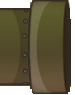
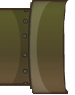
Stop timer if game is over. Put left and right tubes

Changed region(s): [[0.8533, 0.0, 0.96, 0.9684]]

diff --git a/JS2TeamWork_TeamCasper/CasperTheGhost/Scripts/GameLoader.js b/JS2TeamWork_TeamCasper/CasperTheGhost/Scripts/GameLoader.js
@@ -1,4 +1,7 @@
-/// <reference path="rotaryBeam.js" />
+/// <reference path="spring.js" />
+/// <reference path="tubes.js" />
+/// <reference path="tubes.js" />
+/// <reference path="rotaryBeam.js" />
 
 
 
@@ -22,7 +25,7 @@ function loadLevel(levelNumber) {
     initialScore = createCountDown(level.initialScore);
     $.getScript('Scripts/printScore.js',
         function () {
-            scoreBox = new scoreBox(45, 480, Math.floor(initialScore()/1000), objLayer, stage);
+            scoreBox = new scoreBox(45, 480, Math.floor(initialScore() / 1000), objLayer, stage);
         }
     );
 }
@@ -44,7 +47,7 @@ function objectsBiulder(object, objLeyer) {
                 y: object.y,
                 width: object.width,
                 height: object.height,
-                fill: 'orange'
+                fill: 'transparent'
             });
             objLeyer.add(rect);
             collisionObjects.push(rect);
@@ -91,9 +94,37 @@ function objectsBiulder(object, objLeyer) {
                         collisionObjects.push(ourFlatButtonImage);
                     });
                     collisionObjects.push(rotaryBeamImage);
-                }
-
-                )
+                });
+            break;
+        case 'leftTube':
+            var imageObj = new Image();
+            imageObj.onload = function () {
+                var leftTube = new Kinetic.Image({
+                    x: object.x,
+                    y: object.y,
+                    width: 75,
+                    hegith: 50,
+                    image: imageObj
+                })
+                objLeyer.add(leftTube);
+                stage.add(objLeyer);
+            }
+            imageObj.src = 'Resources/tubeLevel1Left.png';
+            break;
+        case 'rightTube':
+            var imageObj = new Image();
+            imageObj.onload = function () {
+                rightTube = new Kinetic.Image({
+                    x: object.x,
+                    y: object.y,
+                    width: 100,
+                    hegith: 50,
+                    image: imageObj
+                })
+                objLeyer.add(rightTube);
+                stage.add(objLeyer);
+            }
+            imageObj.src = 'Resources/tubeLevel1Right.png';
             break;
         default:
             break;

diff --git a/JS2TeamWork_TeamCasper/CasperTheGhost/Scripts/ControlLever.js b/JS2TeamWork_TeamCasper/CasperTheGhost/Scripts/ControlLever.js
@@ -42,7 +42,7 @@ function ControlLever(x, y, layer, stage) {
                 frameRate: 10,
                 frameIndex: 0
             });
-            
+
             layer.add(leverAnimation);
             stage.add(layer);
             leverAnimation.start();
@@ -50,8 +50,8 @@ function ControlLever(x, y, layer, stage) {
             var frameCount = 0;
 
             //On click animation
-            leverAnimation.on('frameIndexChange', function (evt) {
 
+            leverAnimation.on('frameIndexChange', function (evt) {
                 if (leverAnimation.animation() === 'movingLeverON') {
                     if (++frameCount > 5) {
                         leverAnimation.animation('switchedOn');

diff --git a/JS2TeamWork_TeamCasper/CasperTheGhost/Scripts/Engine.js b/JS2TeamWork_TeamCasper/CasperTheGhost/Scripts/Engine.js
@@ -5,6 +5,7 @@ var rotatedBeam;
 var scoreBox;
 var initialScore;
 var playerScore;
+var rightTube;
 
 function scoreInput() {
     var inputForm = document.createElement('input');
@@ -16,6 +17,8 @@ function scoreInput() {
     label.style.fontSize = '22px';
     label.innerHTML = 'Your name';
     inputForm.type = 'text';
+    inputForm.style.width = '150px';
+    inputForm.style.height = '30px';
     inputForm.autofocus = true;
     inputForm.style.position = 'absolute';
     inputForm.style.backgroundColor = 'lightgray';
@@ -41,6 +44,10 @@ function scoreInput() {
             //});
         }
     })
+}
+
+function gameOver() {
+    scoreInput();
 }
 
 function createCountDown(timeRemaining) {

diff --git a/JS2TeamWork_TeamCasper/CasperTheGhost/Scripts/Levels.js b/JS2TeamWork_TeamCasper/CasperTheGhost/Scripts/Levels.js
@@ -42,6 +42,16 @@
                 x: 423,
                 y: 259,
             },
+            {
+                name: 'leftTube',
+                x: 0,
+                y: 132,
+            },
+            {
+                name: 'rightTube',
+                x: 700,
+                y: 430,
+            },
             { name: 'rect', x: 0, y: 220, width: 425, height: 20 },
             { name: 'rect', x: 560, y: 220, width: 47, height: 20 },
             { name: 'rect', x: 690, y: 220, width: 110, height: 20 },

diff --git a/JS2TeamWork_TeamCasper/CasperTheGhost/Scripts/CasperObject.js b/JS2TeamWork_TeamCasper/CasperTheGhost/Scripts/CasperObject.js
@@ -105,7 +105,9 @@ function Casper(x, y, layer, stage) {
                     if (++frameCounter > 12) {
                         blob.animation('dead');
                         frameCounter = 0;
-                        scoreInput();
+                        blob.stop();
+                        anim.stop();
+                        gameOver();
                     }
                 }
 
